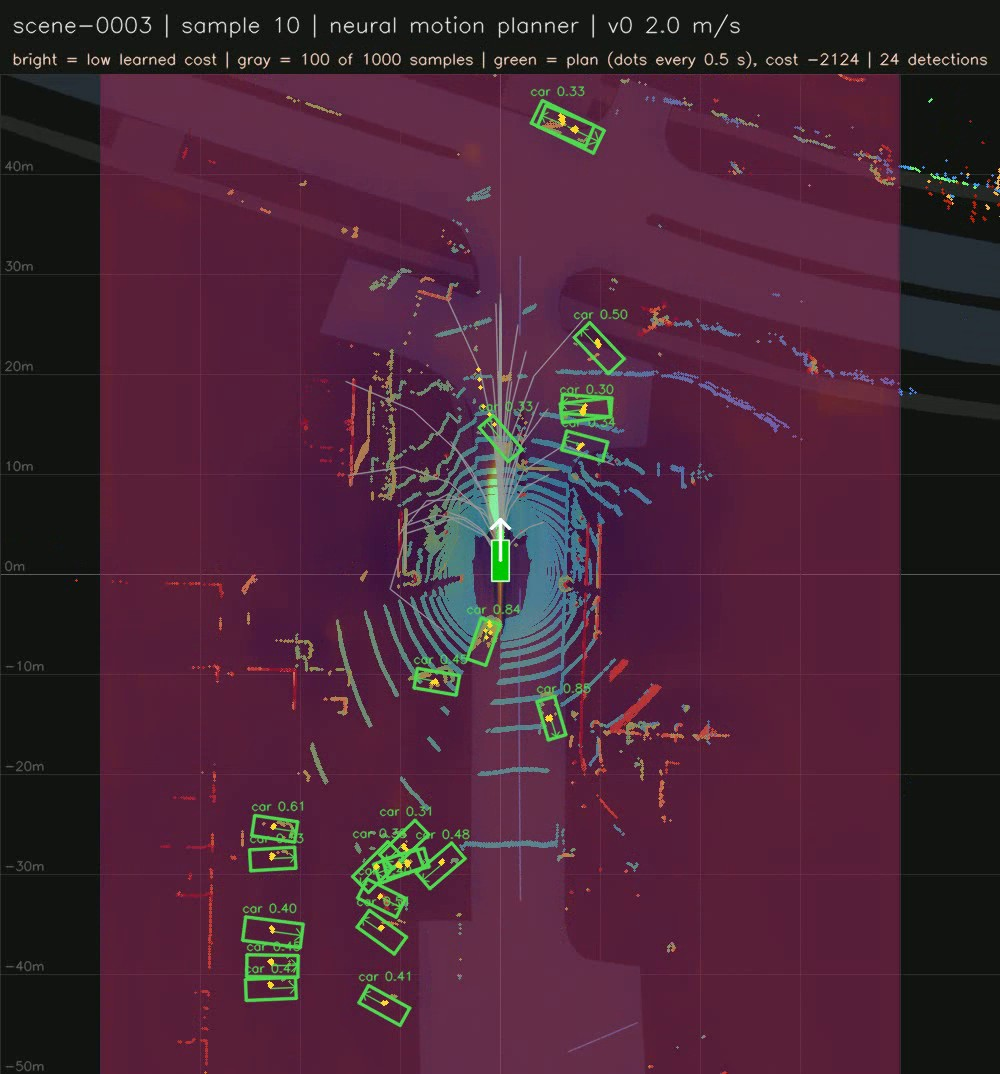
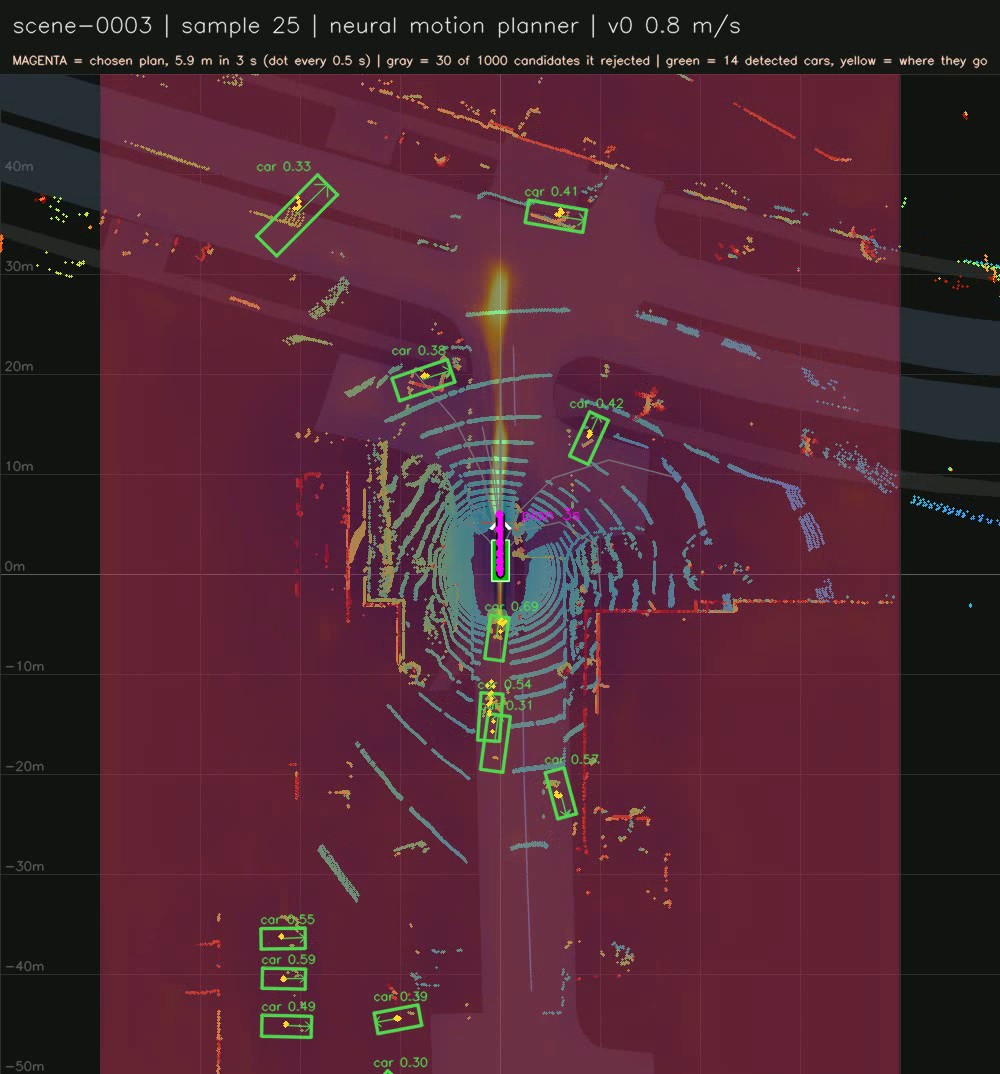
docs: report both NMP checkpoints and state only what the eval supports

diff --git a/README.md b/README.md
@@ -82,11 +82,13 @@ Trained 20 epochs on 139 nuScenes train scenes (4,396 samples), evaluated on the
 
 | method | L2 1/2/3 s (m) | collision 1/2/3 s (%) | off-road 3 s (%) |
 |---|---|---|---|
+| human driver (logged) | 0 / 0 / 0 | 0.00 / 0.00 / 0.00 | 0.00 |
 | constant velocity | 0.40 / 1.16 / 2.33 | 0.00 / 0.41 / 2.24 | 5.70 |
-| **NMP (ours)** | 0.47 / 1.57 / 3.44 | 0.00 / 0.00 / **0.61** | **0.10** |
+| **NMP, last epoch** | 0.47 / 1.59 / 3.49 | 0.00 / 0.00 / 1.12 | 0.00 |
+| NMP, best epoch by val collision (17) | 0.47 / 1.57 / 3.44 | 0.00 / 0.00 / 0.61 | 0.10 |
 | NMP reference ([Khurana et al., ECCV 2022](https://arxiv.org/abs/2210.01917), full val, no map) | 0.53 / 1.25 / 2.67 | 0.04 / 0.12 / 0.87 | - |
 
-It stays on the road and out of other cars far better than driving straight, and its collision rate is below the published reference. It is further from the human trajectory (L2) than the reference: the planning loss only asks the human path to be cheapest, and we train on a fifth of the data. Vehicle AP at 2 m within 50 m is 0.36. Implementation in [fsd/nmp/](fsd/nmp/).
+The last epoch is the honest number; the best epoch was picked on the same val split, so its collision rate is optimistic. The planner stays on the road and out of other cars far better than driving straight (the human row shows the metrics don't penalise normal driving), and it travels 18 m in 3 s against the human's 19 m, so it is not avoiding collisions by stopping. It is further from the human trajectory than both constant velocity and the reference. The reference uses the same loss, so the loss alone doesn't explain that; less data (a fifth of nuScenes, 31 of 150 val scenes) and the differences between our setup and theirs are candidates, not a diagnosis. Vehicle AP at 2 m within 50 m is 0.44. Implementation in [fsd/nmp/](fsd/nmp/).
 
 ### Results
 
@@ -124,7 +126,7 @@ It stays on the road and out of other cars far better than driving straight, and
   <tr>
     <td colspan="2" align="center">
       <img src="results/nuscenes_planner_bev.jpg" width="50%"><br>
-      <sub>Neural motion planner - learned cost (bright = cheap), 100 of the 1000 sampled trajectories (gray), the selected plan (green, dots every 0.5 s), and detected vehicles with forecasts (yellow)</sub>
+      <sub>Neural motion planner - the chosen 3 s plan (magenta, dots every 0.5 s), 30 of the 1000 sampled trajectories it rejected (gray), the learned cost (bright = cheap), and detected vehicles (green) with their forecasts (yellow)</sub>
     </td>
   </tr>
   <tr>
